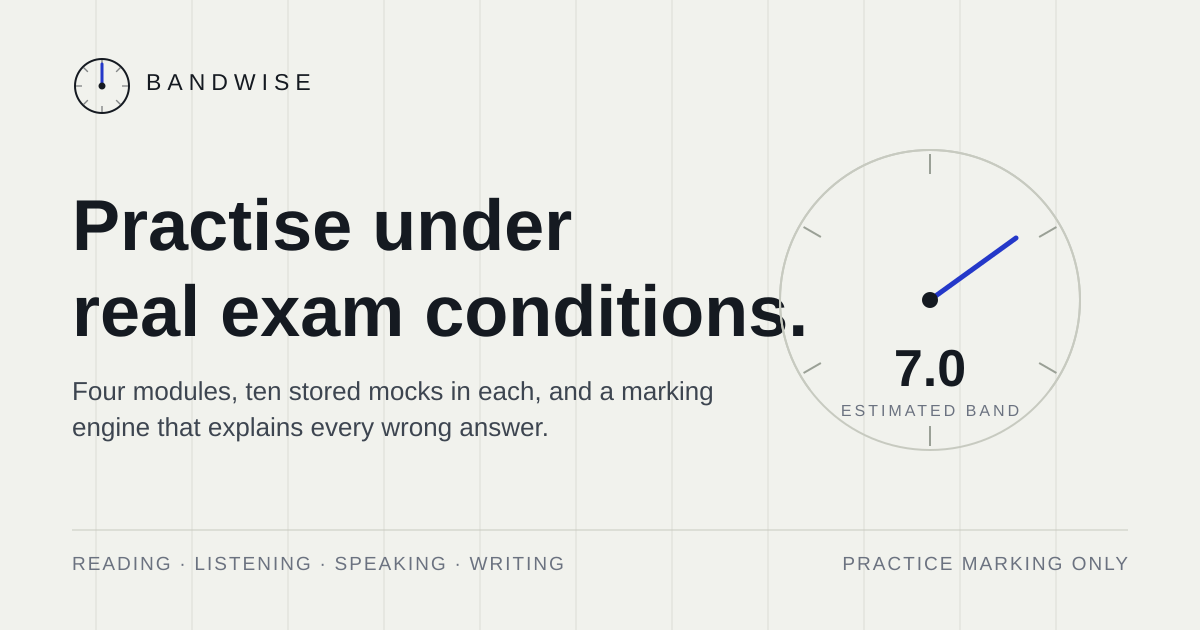
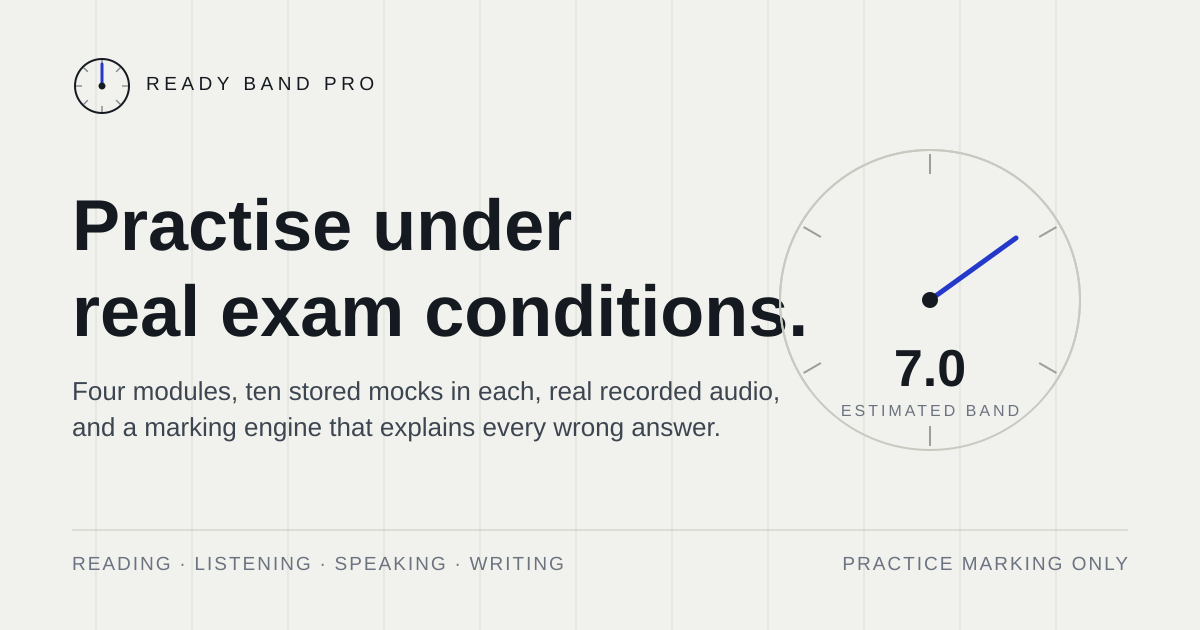
Rename the product to Ready Band Pro
Every user-visible use of the old name is replaced: wordmark, footer, page title,
social card title, disclaimer, favicon label and README, and the social card image
was regenerated with the new wordmark.

Changed region(s): [[0.0617, 0.6635, 0.6167, 0.6937], [0.4625, 0.6032, 0.6475, 0.6333], [0.1233, 0.1206, 0.3083, 0.1508]]

diff --git a/app/src/components/ui.tsx b/app/src/components/ui.tsx
@@ -13,7 +13,7 @@ import { useSession } from "../lib/session";
 export function RecordMark({ className }: { className?: string }) {
   const ticks = Array.from({ length: 12 }, (_, i) => i * 30);
   return (
-    <svg viewBox="0 0 48 48" className={className} role="img" aria-label="Bandwise">
+    <svg viewBox="0 0 48 48" className={className} role="img" aria-label="Ready Band Pro">
       <circle cx="24" cy="24" r="21" fill="none" stroke="currentColor" strokeWidth="1.25" />
       <g stroke="currentColor" strokeWidth="1" opacity="0.55">
         {ticks.map((deg) => (
@@ -37,7 +37,7 @@ export function Wordmark({ className }: { className?: string }) {
   return (
     <span className={"inline-flex items-center gap-2.5 " + (className ?? "")}>
       <RecordMark className="h-6 w-6 shrink-0" />
-      <span className="text-[0.95rem] font-semibold tracking-[0.16em] uppercase">Bandwise</span>
+      <span className="text-[0.95rem] font-semibold tracking-[0.16em] uppercase">Ready Band Pro</span>
     </span>
   );
 }
@@ -507,7 +507,7 @@ export function SiteNav() {
   return (
     <header className="sticky top-0 z-30 border-b border-rule bg-paper/95 backdrop-blur">
       <div className="mx-auto flex h-[68px] max-w-[1180px] items-center justify-between gap-6 px-5">
-        <Link to="/" aria-label="Bandwise home">
+        <Link to="/" aria-label="Ready Band Pro home">
           <Wordmark />
         </Link>
 
@@ -588,7 +588,7 @@ export function SiteFooter() {
       </div>
       <div className="border-t border-rule">
         <div className="mx-auto flex max-w-[1180px] flex-wrap items-center justify-between gap-3 px-5 py-5">
-          <MeasureNote>Bandwise · practice marking only · every band is an estimate</MeasureNote>
+          <MeasureNote>Ready Band Pro · practice marking only · every band is an estimate</MeasureNote>
           <p className="text-xs text-ink-soft">
             Designed and built by <span className="font-semibold text-ink">Attaullah</span>
           </p>

diff --git a/app/src/routes/index.tsx b/app/src/routes/index.tsx
@@ -327,7 +327,7 @@ function Landing() {
             <BandCTA to="/account">Create your free account</BandCTA>
             <p className="text-xs leading-relaxed text-ink-mute">
               Every band shown in this app is an estimate from practice marking. It is not an official
-              IELTS score, and Bandwise is not affiliated with IELTS, the British Council, IDP or
+              IELTS score, and Ready Band Pro is not affiliated with IELTS, the British Council, IDP or
               Cambridge University Press and Assessment.
             </p>
           </div>

diff --git a/app/src/content/strategies.ts b/app/src/content/strategies.ts
@@ -3,7 +3,7 @@
  *
  * Every question family the four modules use has a strategy, three speed tips
  * and the traps that cost marks in that family. This is original writing for
- * Bandwise, following the standard IELTS question families and the practice
+ * Ready Band Pro, following the standard IELTS question families and the practice
  * test format teachers use: tackle the test, then work the strategy for the
  * question types you are losing marks on, then drill those types alone.
  *

diff --git a/app/src/styles.css b/app/src/styles.css
@@ -113,7 +113,7 @@
 }
 
 /* =====================================================================
-   BANDWISE — the calibration desk
+   READY BAND PRO — the calibration desk
    The site's own token layer. Nothing below uses a q-* utility: this is a
    standalone brand on the bone paper and ink of a marked exam sheet, with
    one accent (ultramarine) and a red-pen register reserved for corrections.

diff --git a/app/src/content/reading/r01.ts b/app/src/content/reading/r01.ts
@@ -2,7 +2,7 @@ import type { ReadingMock } from "../types";
 
 /**
  * Reading mock R01. Three passages, 40 questions, 13 + 13 + 14.
- * Original, copyright safe text written for Bandwise. All factual detail is
+ * Original, copyright safe text written for Ready Band Pro. All factual detail is
  * drawn from the public record.
  */
 export const R01: ReadingMock = {

diff --git a/app/src/content/writing/index.ts b/app/src/content/writing/index.ts
@@ -181,7 +181,7 @@ export const WRITING_MOCKS: WritingMock[] = [
             "Farmland replaced by housing and a business park",
             "A rail line with a station on the northern edge",
           ],
-          source: "Original map task written for Bandwise",
+          source: "Original map task written for Ready Band Pro",
         },
       },
       {

diff --git a/app/src/lib/session.tsx b/app/src/lib/session.tsx
@@ -9,8 +9,8 @@
  */
 import { createContext, useCallback, useContext, useEffect, useMemo, useState, type ReactNode } from "react";
 
-const TOKEN_KEY = "bandwise.session";
-const EMAIL_KEY = "bandwise.email";
+const TOKEN_KEY = "readybandpro.session";
+const EMAIL_KEY = "readybandpro.email";
 
 export type PublicUser = {
   id: string;

diff --git a/app/src/routes/__root.tsx b/app/src/routes/__root.tsx
@@ -15,7 +15,7 @@ import appMetaJson from "../app-meta.json";
 
 declare const __HF_DESIGN_INSPECTOR__: boolean;
 
-const DEFAULT_TITLE = "Bandwise";
+const DEFAULT_TITLE = "Ready Band Pro";
 const DEFAULT_DESCRIPTION =
   "IELTS Academic practice with the real thing in front of you: four modules, ten mocks, every answer explained.";
 

diff --git a/app/src/content/types.ts b/app/src/content/types.ts
@@ -1,5 +1,5 @@
 /**
- * Content model for the Bandwise test engine.
+ * Content model for the Ready Band Pro test engine.
  *
  * Everything the four modules need is described here once, so a new mock is
  * pure data: drop it into the matching content file and the engine picks it up

diff --git a/scripts/fetch-assets.py b/scripts/fetch-assets.py
@@ -1,6 +1,6 @@
 #!/usr/bin/env python3
 """
-Fetch licence-free photographs for the Bandwise build from Wikimedia Commons.
+Fetch licence-free photographs for the Ready Band Pro build from Wikimedia Commons.
 
 Every file is written with its author, licence and source page recorded, so the
 attribution file in the repo is generated from the same run that downloaded the

diff --git a/scripts/check-links.py b/scripts/check-links.py
@@ -1,6 +1,6 @@
 #!/usr/bin/env python3
 """
-Full user-path check for the live Bandwise deployment.
+Full user-path check for the live Ready Band Pro deployment.
 
 Two passes:
 

diff --git a/README.md b/README.md
@@ -1,4 +1,4 @@
-# Bandwise
+# Ready Band Pro
 
 An IELTS Academic practice platform: four modules on one test engine, with
 marking that explains every wrong answer instead of only counting it.
